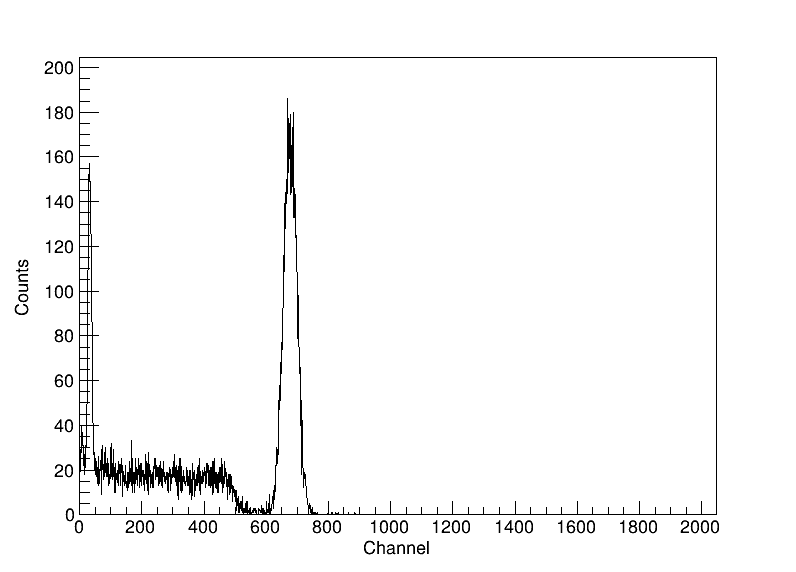
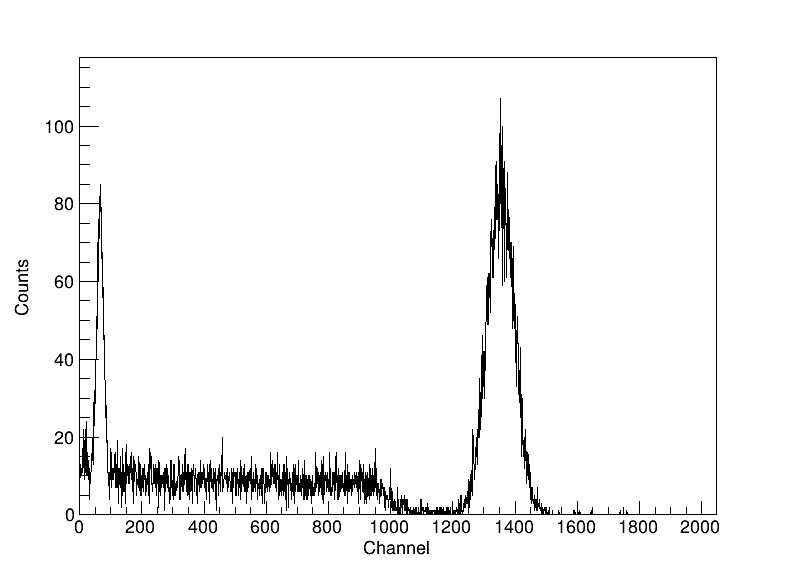
Narrow scintillator spectrum range to 0-1 MeV
Channel width halves from 0.977 keV to 0.488 keV at 2048 channels.
Verified with the Cs-137 macro: the 661.7 keV photopeak lands at
channel ~1355, matching the new binning. Regenerate the README example
spectrum accordingly.

diff --git a/g4decay.cc b/g4decay.cc
@@ -56,10 +56,10 @@ void nnScint() { plotSpectrum("output_fin_Scint.dat", "EnergyDepositionScint.png
 void csv_to_dat(){
     std::string filename = "merge.csv"; // Your file name
     // Column 0 (Edep): PIPS, alpha only, binned over 3-15 MeV, 2048 channels.
-    // Column 1 (EdepScint): NaI(Tl) scintillator, any particle, binned over 0-2 MeV, 2048 channels.
+    // Column 1 (EdepScint): NaI(Tl) scintillator, any particle, binned over 0-1 MeV, 2048 channels.
     const int nBinsPIPS = 2048;
     const int nBinsScint = 2048;
-    const double maxEnergyScint = 2.0; // MeV
+    const double maxEnergyScint = 1.0; // MeV
     std::vector<G4double> MCHist(nBinsPIPS, 0.0);
     std::vector<G4double> MCHistScint(nBinsScint, 0.0);
 

diff --git a/CLAUDE.md b/CLAUDE.md
@@ -43,7 +43,7 @@ The macro receives `{Znum}`, `{Anum}`, and `{NumberOfParticles}` as aliases set 
 
 After the run, `main()` automatically:
 1. Merges per-thread CSV files: `tail -n +7 -q output_nt_Scoring_t*.csv >> merge.csv` (skips the 6-line G4 CSV header — 4 fixed lines + one `#column` line per n-tuple column; currently 2 columns)
-2. Bins both energy columns into 2048-channel spectra (`csv_to_dat()`): PIPS over 3–15 MeV → `output_fin.dat`, scintillator over 0–2 MeV → `output_fin_Scint.dat`
+2. Bins both energy columns into 2048-channel spectra (`csv_to_dat()`): PIPS over 3–15 MeV → `output_fin.dat`, scintillator over 0–1 MeV → `output_fin_Scint.dat`
 3. Plots both via ROOT: `nn()` → `EnergyDeposition.png`, `nnScint()` → `EnergyDepositionScint.png`
 
 **Note:** `main()` calls `system("rm *.png *.dat *.csv")` at startup — all previous output is wiped each run.

diff --git a/README.md b/README.md
@@ -87,7 +87,7 @@ Example — 100000 Cs-137 decays aimed at the scintillator:
 | `merge.csv` | Merged n-tuple from all threads |
 | `output.dat` | Per-run PIPS histogram from `MyRunAction` — **broken under MT** (see Known issues) |
 | `output_fin.dat` | Final PIPS spectrum after electronics broadening, 2048 channels over 3–15 MeV |
-| `output_fin_Scint.dat` | Final scintillator spectrum after broadening, 2048 channels over 0–2 MeV |
+| `output_fin_Scint.dat` | Final scintillator spectrum after broadening, 2048 channels over 0–1 MeV |
 | `total_energy.dat` | Total deposited energy and kerma in the PIPS scoring volume |
 | `EnergyDeposition.png` | Plot of `output_fin.dat` (PIPS, full range) |
 | `EnergyDepositionScint.png` | Plot of `output_fin_Scint.dat` (scintillator, full range) |
